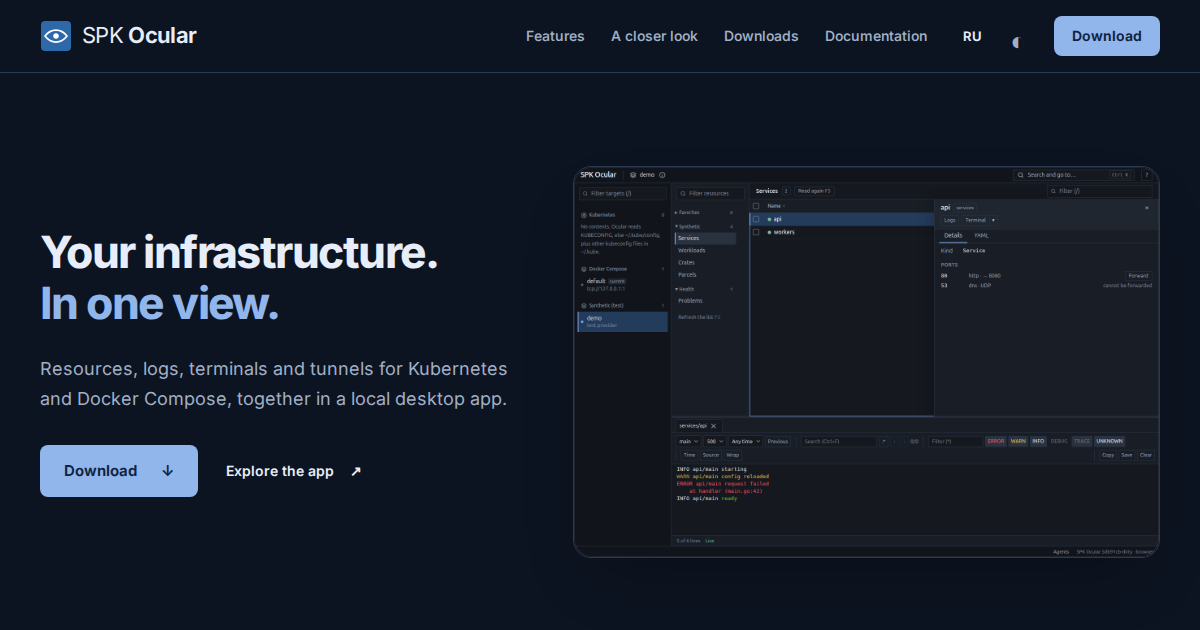
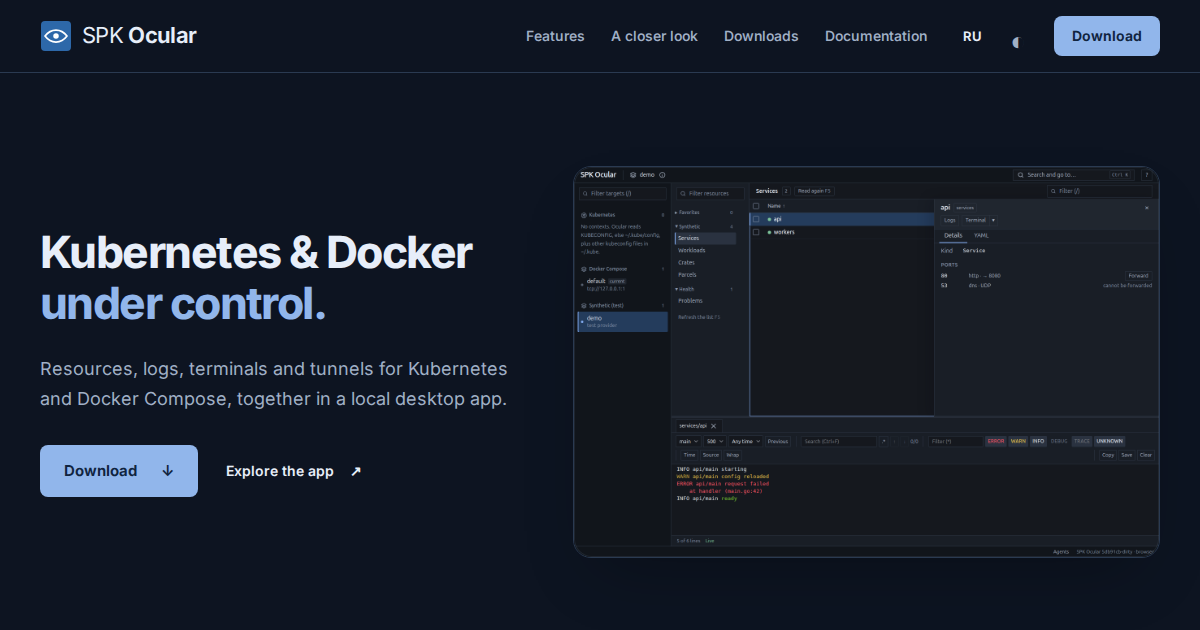
Give Ocular a product-specific headline

Changed region(s): [[0.0308, 0.3619, 0.4008, 0.4524], [0.0308, 0.4524, 0.2775, 0.5127]]

diff --git a/src/i18n/copy.ts b/src/i18n/copy.ts
@@ -1,8 +1,8 @@
 export const en = {
-  title: 'SPK Ocular | Kubernetes and Docker, in one view',
+  title: 'SPK Ocular | Kubernetes and Docker under control',
   description: 'A local desktop app for Kubernetes and Docker Compose. Explore resources, follow logs, open terminals and review changes on Linux, Windows and macOS.',
   nav: ['Features', 'A closer look', 'Downloads'], docs: 'Documentation', download: 'Download', theme: 'Switch theme', menu: 'Menu', skip: 'Skip to content',
-  hero: ['Your infrastructure.', 'In one view.'], lead: 'Resources, logs, terminals and tunnels for Kubernetes and Docker Compose, together in a local desktop app.', explore: 'Explore the app',
+  hero: ['Kubernetes & Docker', 'under control.'], lead: 'Resources, logs, terminals and tunnels for Kubernetes and Docker Compose, together in a local desktop app.', explore: 'Explore the app',
   facts: [['Kubernetes + Docker', 'Your existing contexts'], ['Linux, Windows, macOS', 'x86-64 and ARM64'], ['Open source', 'Apache 2.0']],
   overview: 'From a signal to the details.', overviewText: 'See what needs attention. Open the resource, follow its logs and inspect its configuration without losing your place.',
   demo: 'Actual application, demonstration data.', shot: 'SPK Ocular showing resources and a live log panel in a demonstration profile',
@@ -35,10 +35,10 @@ export const en = {
 };
 export type Copy = typeof en;
 export const ru: Copy = {
-  title: 'SPK Ocular | Kubernetes и Docker в одном окне',
+  title: 'SPK Ocular | Kubernetes и Docker под контролем',
   description: 'Локальное приложение для Kubernetes и Docker Compose. Ресурсы, логи, терминалы и изменения с предварительным просмотром для Linux, Windows и macOS.',
   nav: ['Возможности', 'Интерфейс', 'Загрузки'], docs: 'Документация', download: 'Скачать', theme: 'Сменить тему', menu: 'Меню', skip: 'К содержимому',
-  hero: ['Всё окружение.', 'Одним взглядом.'], lead: 'Ресурсы, логи, терминалы и туннели Kubernetes и Docker Compose в одном локальном приложении.', explore: 'Посмотреть интерфейс',
+  hero: ['Kubernetes и Docker', 'под контролем.'], lead: 'Ресурсы, логи, терминалы и туннели Kubernetes и Docker Compose в одном локальном приложении.', explore: 'Посмотреть интерфейс',
   facts: [['Kubernetes + Docker', 'Ваши привычные контексты'], ['Linux, Windows, macOS', 'x86-64 и ARM64'], ['Открытый код', 'Apache 2.0']],
   overview: 'От сигнала к подробностям.', overviewText: 'Узнайте, что требует внимания. Откройте ресурс, посмотрите его логи и конфигурацию, сохранив рабочий контекст.',
   demo: 'Настоящее приложение, демонстрационные данные.', shot: 'Ресурсы и панель живых логов SPK Ocular в демонстрационном профиле',

diff --git a/README.md b/README.md
@@ -6,6 +6,8 @@ lives on `master`; this worktree does not change its builds or release history.
 Astro generates Russian (`/spk-ocular/`) and English (`/spk-ocular/en/`) pages.
 The site uses the application's existing logo, Inter, a blue accent, light/dark
 semantic colors, and real screenshots from an isolated demonstration profile.
+The hero names Kubernetes and Docker directly; copy describes concrete product
+capabilities instead of echoing the launcher’s one-click slogan.
 Motion is limited to initial hierarchy and interaction feedback; reduced motion
 is respected. Native disclosure elements and all content work without JavaScript.
 
